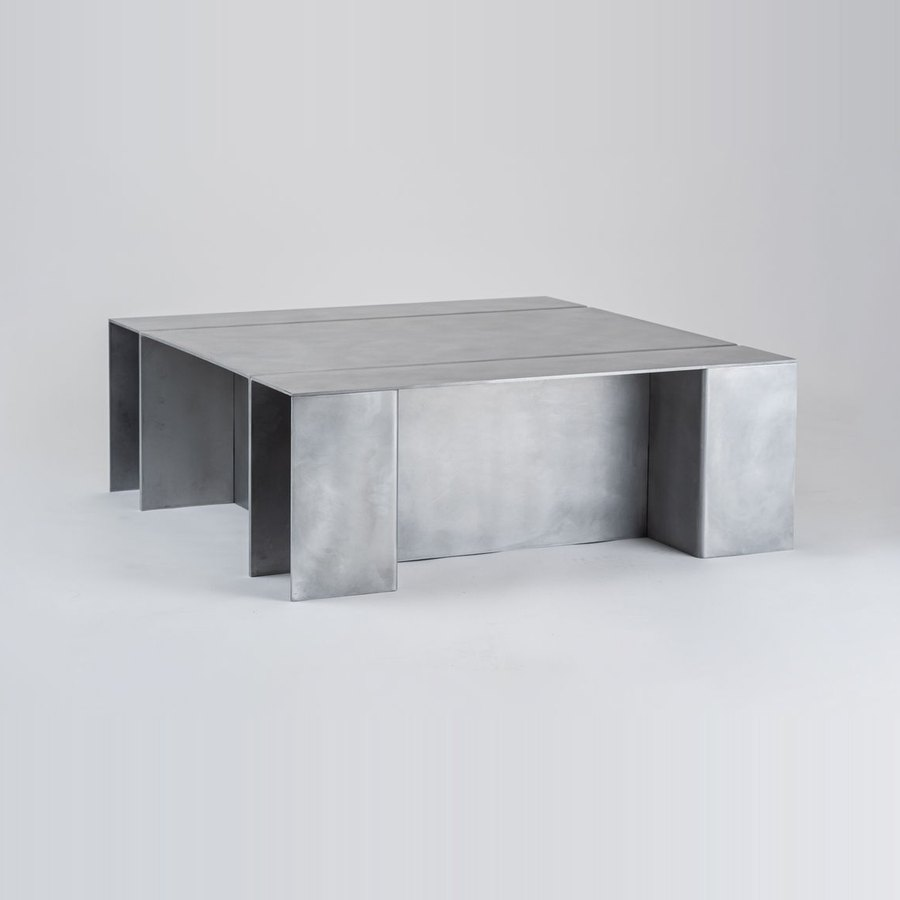
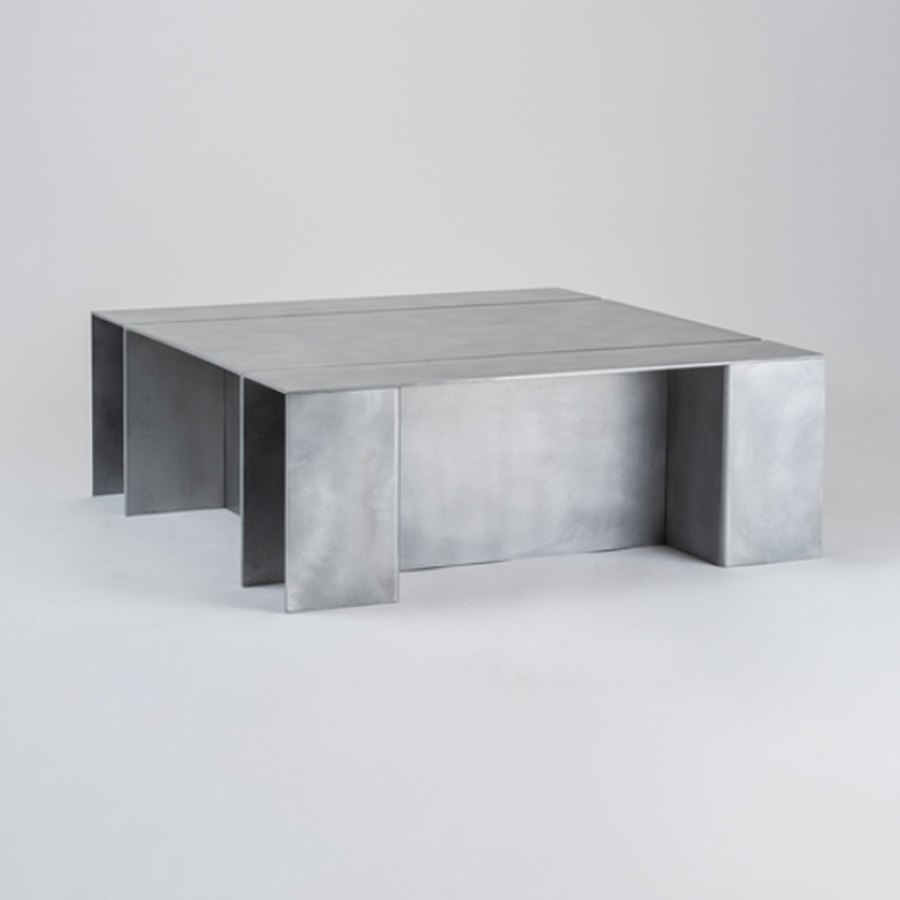
Section Coffee Table: nueva foto centrada y foto de detalle
Claude-Session: https://claude.ai/code/session_01Xops2A717m5QMFGxGir6Zh

Changed region(s): [[0.0933, 0.3111, 0.9333, 0.6844], [0.4356, 0.6222, 0.56, 0.6533]]

diff --git a/data/biblioteca.js b/data/biblioteca.js
@@ -43,7 +43,7 @@ window.BIBLIOTECA = {
     { id: "lampara-sisisi", nombre: "Lámpara Sísísí Cónicas Planas", categoria: "Iluminación", subcategoria: "Suspensión", autor: "Gabriel Ordeig", marca: "Santa & Cole", año: 1987, imagen: "img/mobiliario/lampara-sisisi.jpg" },
     { id: "silla-markelius", nombre: "Silla Markelius", categoria: "Sillas", autor: "", marca: "Vintage · Fenix Originals", imagen: "img/mobiliario/silla-markelius.jpg", detalle: "img/mobiliario/silla-markelius-detalle.jpg" },
     { id: "silla-quadra", nombre: "Silla Quadra", categoria: "Sillas", autor: "", marca: "Otra Objects", imagen: "img/mobiliario/silla-quadra.jpg", detalle: "img/mobiliario/silla-quadra-detalle.jpg" },
-    { id: "section-coffee-table", nombre: "Section Coffee Table", categoria: "Mesas", autor: "Paul Coenen", marca: "Vasto Gallery", año: 2023, imagen: "img/mobiliario/section-coffee-table.jpg" },
+    { id: "section-coffee-table", nombre: "Section Coffee Table", categoria: "Mesas", autor: "Paul Coenen", marca: "Vasto Gallery", año: 2023, imagen: "img/mobiliario/section-coffee-table.jpg", detalle: "img/mobiliario/section-coffee-table-detalle.jpg" },
     { id: "silla-dr-sonderbar", nombre: "Silla Dr. Sonderbar", categoria: "Sillas", autor: "Philippe Starck", marca: "XO · Vintage, Polop Store", año: 1983, imagen: "img/mobiliario/silla-dr-sonderbar.jpg", detalle: "img/mobiliario/silla-dr-sonderbar-detalle.jpg" },
     { id: "lampara-falkland", nombre: "Lámpara Falkland", categoria: "Iluminación", subcategoria: "Suspensión", autor: "Bruno Munari", marca: "Artemide", año: 1964, imagen: "img/mobiliario/lampara-falkland.jpg" },
     { id: "fragile-lamp", nombre: "Fragile Lamp", categoria: "Iluminación", subcategoria: "Sobremesa", autor: "Jaume Ramírez", marca: "Marset", año: 2023, imagen: "img/mobiliario/fragile-lamp.jpg" },
